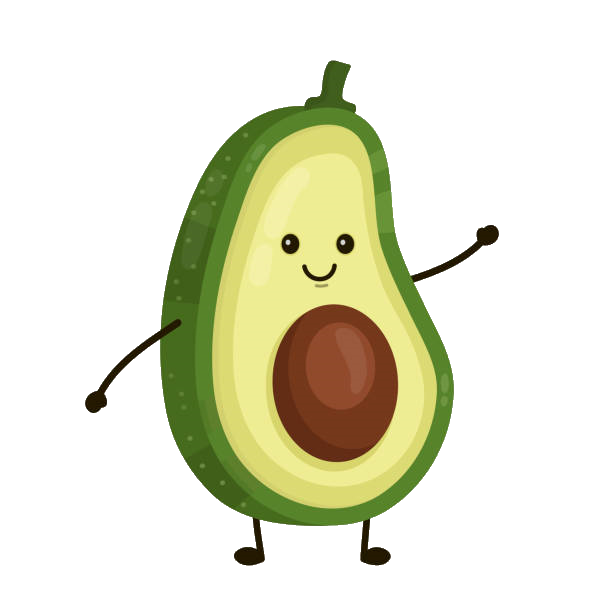
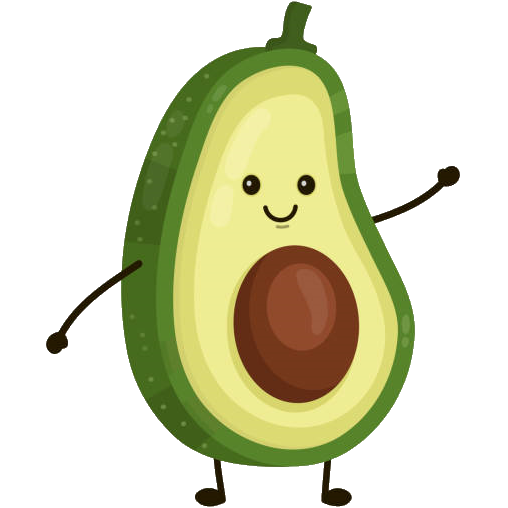
ton of visual fixes
yes

Changed region(s): [[0.0886, 0.0, 0.9154, 1.0], [0.4134, 0.502, 0.561, 0.7087]]

diff --git a/client/src/components/Home.jsx b/client/src/components/Home.jsx
@@ -3,7 +3,7 @@ import About from './About'
 import Services from './Services'
 import { NavLink } from 'react-router-dom';
 
-const Home = () => {
+const Home = (props) => {
     return (
         <div>
             <section id="home">
@@ -12,9 +12,11 @@ const Home = () => {
                         <div className="col-md-8 mt-4 mb-2">
                             <h1 className="display-4 fw-bolder mb-2 text-center">NourishNet</h1>
                             <p className="lead text-center fs-4">Take control of your diet!</p>
+
                             <div className="buttons d-flex justify-content-center">
-                                <NavLink to="/register" className="btn btn-light me-4 rounded">Get Started</NavLink>
+                                <NavLink to="/Recipes" className="btn btn-light me-4 rounded">Get Cooking!</NavLink>
                             </div>
+                            
                         </div>
                     </div>
                 </div>

diff --git a/client/src/components/Recipes.jsx b/client/src/components/Recipes.jsx
@@ -38,7 +38,7 @@ const Recipes = () => {
             <section id="home">
                 <div className="container">
                     <div className="row justify-content-center">
-                        <div className="col-md-8 mt-5">
+                        <div className="col-md-8 mt-5 mb-5">
                             <h1 className="display-4 fw-bolder mb text-center">Recipe Search</h1>
                             <p className="lead text-center fs-4 mb-5">Let's Cook!</p>
                             {/*
@@ -61,6 +61,9 @@ const Recipes = () => {
                                 </SLink>
                             </List>
                             */}
+
+                            
+
                             <div className="input-group mb-3">
                                 <input 
                                     type="text"

diff --git a/client/src/components/Navbar.jsx b/client/src/components/Navbar.jsx
@@ -18,9 +18,6 @@ const Navbar = (props) => {
               <li className="nav-item">
                 <NavLink className="nav-link" to="/recipes">Browse</NavLink>
               </li>
-              <li className="nav-item">
-                <NavLink className="nav-link" to="/about">About</NavLink>
-              </li>
               </>:<>
               <li className="nav-item">
                 <NavLink className="nav-link active" aria-current="page" to="/">Home</NavLink>
@@ -33,9 +30,6 @@ const Navbar = (props) => {
               </li>
               <li className="nav-item">
                 <NavLink className="nav-link" to="/recipes">Browse</NavLink>
-              </li>
-              <li className="nav-item">
-                <NavLink className="nav-link" to="/about">About</NavLink>
               </li>
               </>}
             </ul>

diff --git a/client/src/App.css b/client/src/App.css
@@ -16,6 +16,13 @@
     background: rgb(134, 180, 131);
 }
 
+/* RECIPE */
+#recipe{
+    background-image: url('board.png');
+    background-repeat: no-repeat;
+    padding: 1px;
+}
+
 #faq{
     background: linear-gradient(90deg, rgb(100,240,160) 0%, rgba(170,255,220) 100%);
     min-height: 240px;
@@ -39,3 +46,20 @@
     100%);
 }
 
+.anim_gradient {
+    background: linear-gradient(132deg, #F4D03F  0%, #16A085 100%);
+            backgroundSize : "400% 400%";
+            animation : "gradient 25s ease infinite";
+        }
+          
+    @keyframes gradient {
+      0% {
+          background-position: 0% 50%;
+      }
+      50% {
+        background-position: 100% 50%;
+      }
+      100% {
+        background-position: 0% 50%;
+      }
+};

diff --git a/client/src/components/RecipeTemplate.jsx b/client/src/components/RecipeTemplate.jsx
@@ -38,6 +38,7 @@ const RecipeTemplate = () => {
   }
 
   return (
+  <section id="recipe">
     <div className="container my-5 py-5">
       <div className="row">
         <div className="col-md-6">
@@ -50,7 +51,7 @@ const RecipeTemplate = () => {
               recipe.tags.map((tag, index) => (
                 <button 
                   key={index} 
-                  className="btn btn-outline-secondary btn-sm mx-1 mb-1"
+                  className="btn btn-outline-dark btn-sm mx-1 mb-1"
                   onClick={() => handleTagClick(tag)}
                 >
                   {tag}
@@ -69,6 +70,7 @@ const RecipeTemplate = () => {
         )}
       </div>
     </div>
+  </section>
   );
 };
 

diff --git a/client/src/components/About.jsx b/client/src/components/About.jsx
@@ -2,13 +2,13 @@ import React from 'react'
 
 const About = () => {
   return (
-    <div>
-        <section id="about">
+    <div class="anim_gradient">
+        <section>
             <div className="container my-5 py-5">
                 <div className="row">
                     <div className="col-md-6">
                         <img src="/assets/clipart_0.png" alt="About"
-                        className="w-50 mt-5" />
+                        className="w-25" />
                     </div>
                     <div className="col-md-6">
                         <h1 className="display-6">Our Mission</h1>

diff --git a/client/src/App.js b/client/src/App.js
@@ -14,14 +14,13 @@ import Logout from './components/Logout';
 import CreateRecipes from './components/CreateRecipes';
 import { Routes, Route } from 'react-router-dom';
 import RecipeTemplate from './components/RecipeTemplate';
-import ProtectedRoute from './ProtectedRoute';
 import { useEffect, useState } from 'react';
 import TagSearch from './components/TagSearch';
 
 function App() {
 
   const [auth, setauth] = useState(false);
-  const [auth1, setauth1] = useState(true);
+  //const [auth1, setauth1] = useState(true);
 
   const isLoggedIn = async () => {
     try {

diff --git a/client/src/components/Footer.jsx b/client/src/components/Footer.jsx
@@ -50,7 +50,7 @@ const Footer = () => {
                         </div>
 
                         <div className="col-4 offset-3">
-                            <img src="/assets/clipart_0.png" width={120} height={120} alt="About" className="offset-8"/>
+                            <img src="/assets/clipart_2.png" width={120} height={120} alt="About" className="offset-8"/>
                         </div>
                     </div>
                 </footer>

diff --git a/client/src/components/TagSearch.jsx b/client/src/components/TagSearch.jsx
@@ -2,7 +2,8 @@ import React, { useState, useEffect } from 'react';
 import background from './kitchen.jpg';
 import axios from 'axios';
 import { useLocation } from 'react-router-dom';
-import { NavLink, Link } from 'react-router-dom'; 
+import { Link } from 'react-router-dom';
+//import { NavLink } from 'react-router-dom'; 
 
 const TagSearch = () => {
     const location = useLocation();
